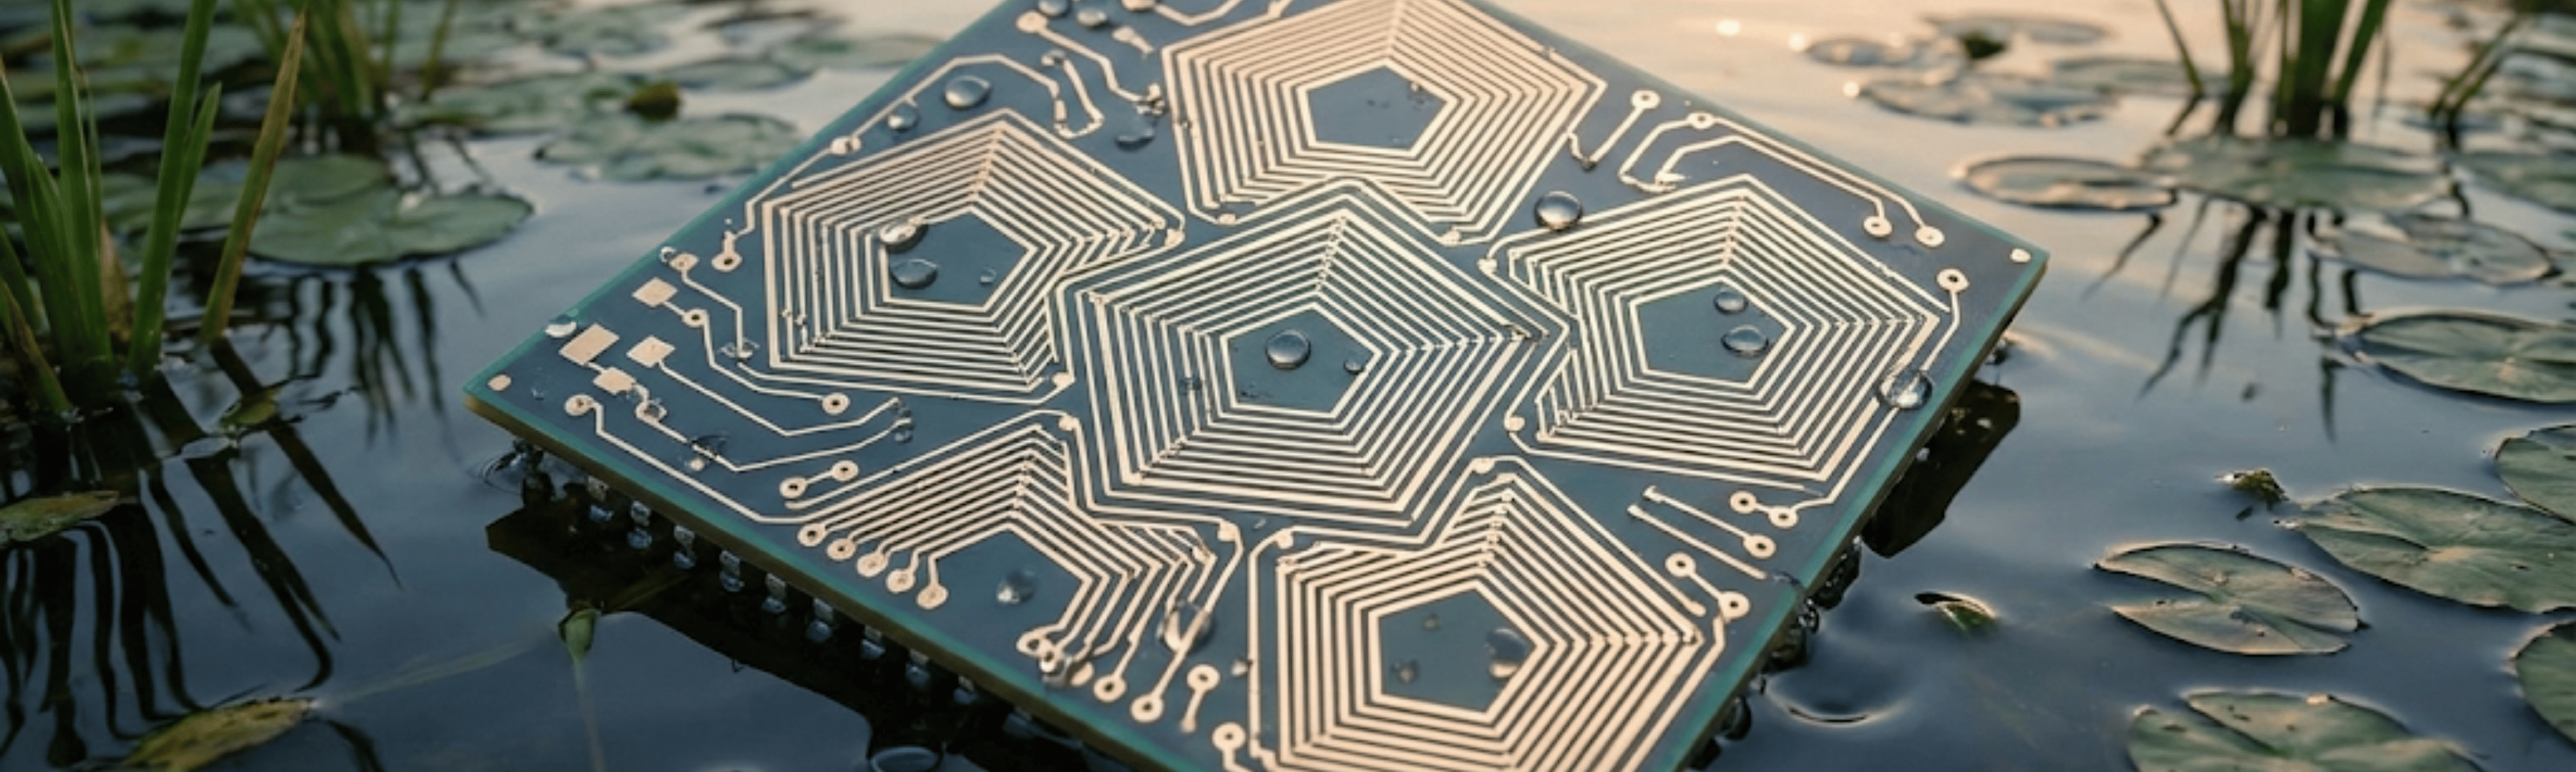
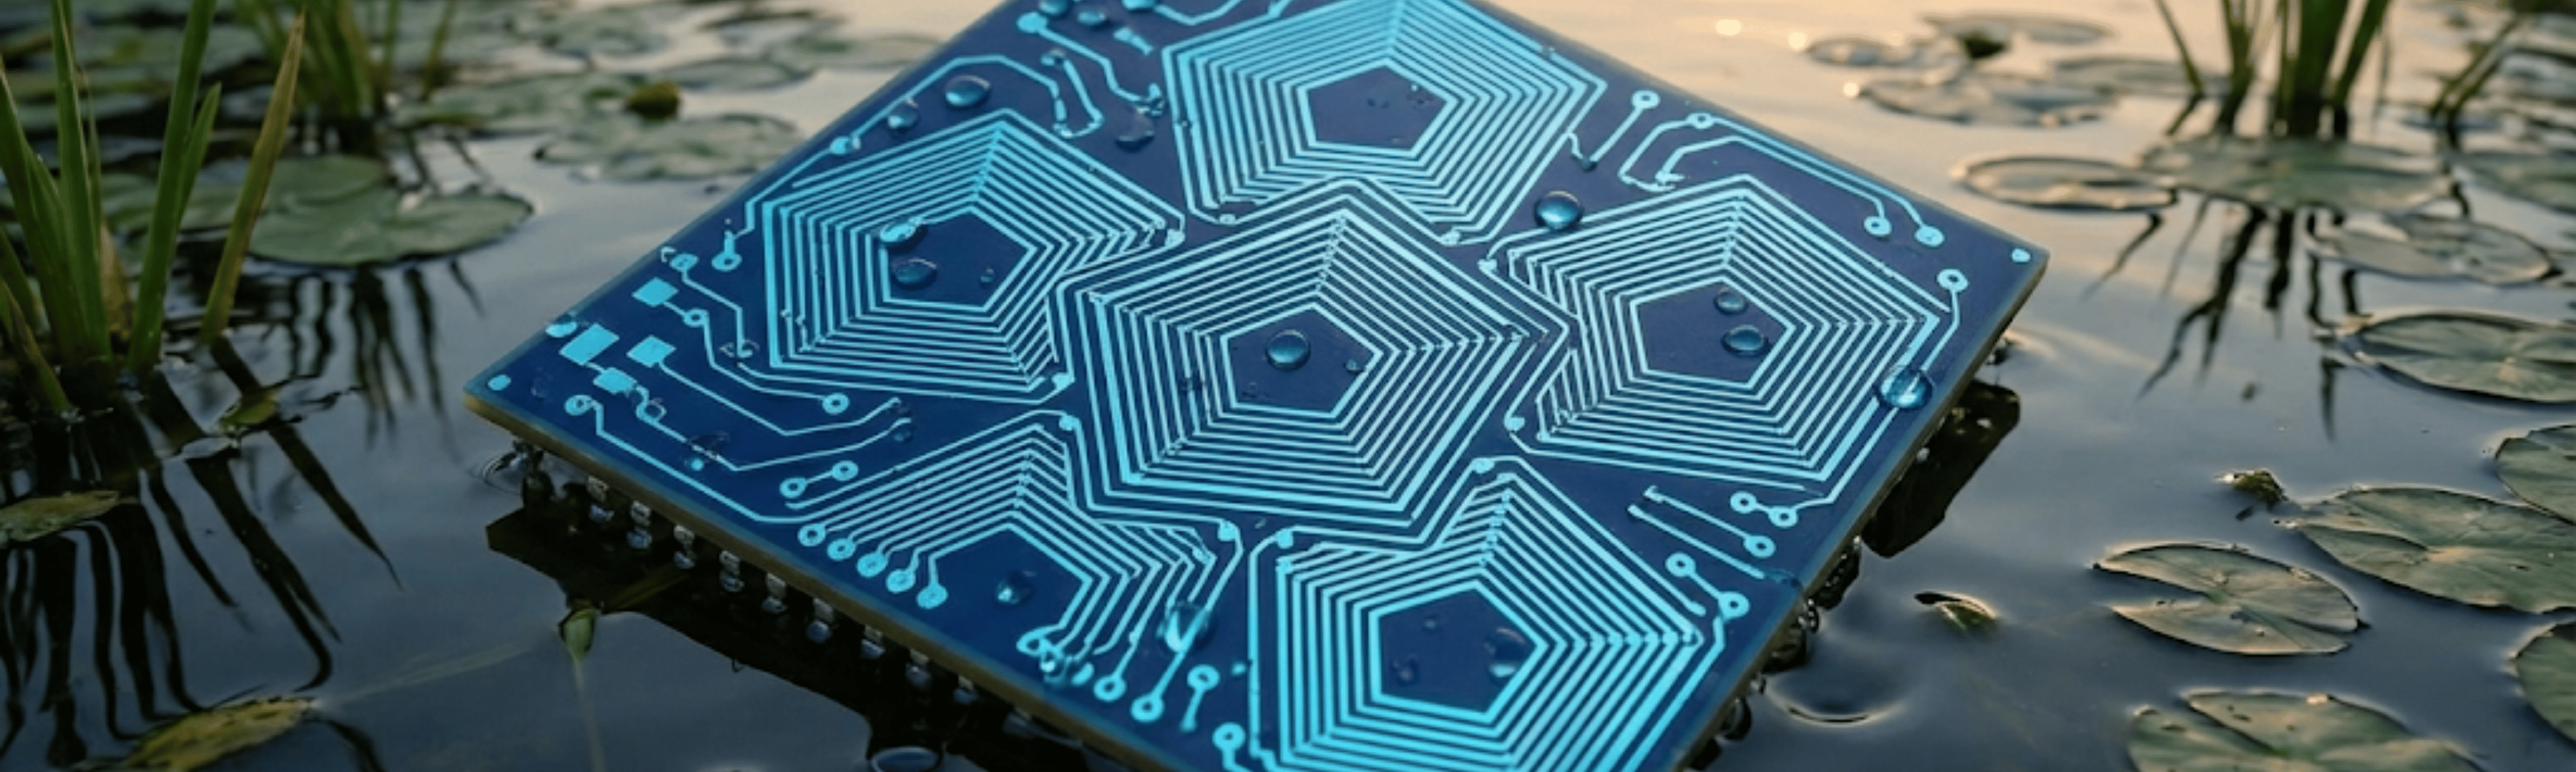
Imagenes

diff --git a/productos.html b/productos.html
@@ -577,7 +577,7 @@
                     <a href="Catalogo/CATALOGO_HIDROSISTEMAS_2021.pdf" download="CATALOGO_HIDROSISTEMAS_2023.pdf" class="btn btn-download">
                         <i class="fas fa-download"></i> Descargar PDF
                     </a>
-                    <a href="Catalogo/Catalogo-2026.html" class="btn btn-view">
+                    <a href="Catalogo/Catalogo-2026.html" target="_blank" class="btn btn-view">
                         <i class="fas fa-eye"></i> Ver Online
                     </a>
                 </div>
